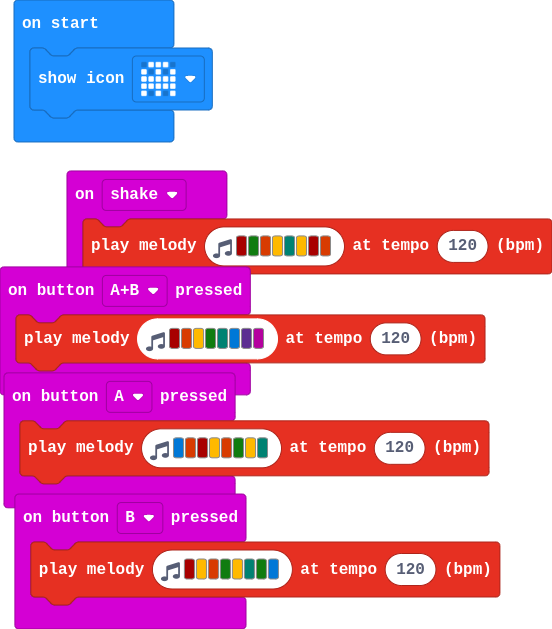
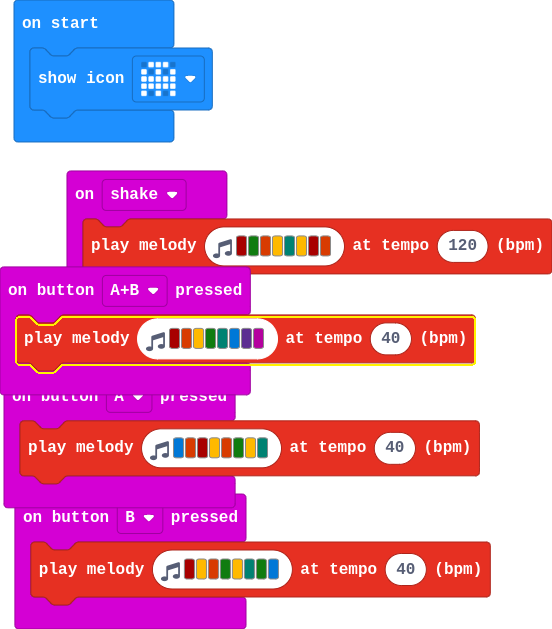
Update main.blocks, main.ts

diff --git a/main.ts b/main.ts
@@ -1,11 +1,11 @@
 input.onButtonPressed(Button.A, function () {
-    music.playMelody("E B C5 A B G A F ", 120)
+    music.playMelody("E B C5 A B G A F ", 40)
 })
 input.onButtonPressed(Button.AB, function () {
-    music.playMelody("C5 B A G F E D C ", 120)
+    music.playMelody("C5 B A G F E D C ", 40)
 })
 input.onButtonPressed(Button.B, function () {
-    music.playMelody("C5 A B G A F G E ", 120)
+    music.playMelody("C5 A B G A F G E ", 40)
 })
 input.onGesture(Gesture.Shake, function () {
     music.playMelody("C5 G B A F A C5 B ", 120)
